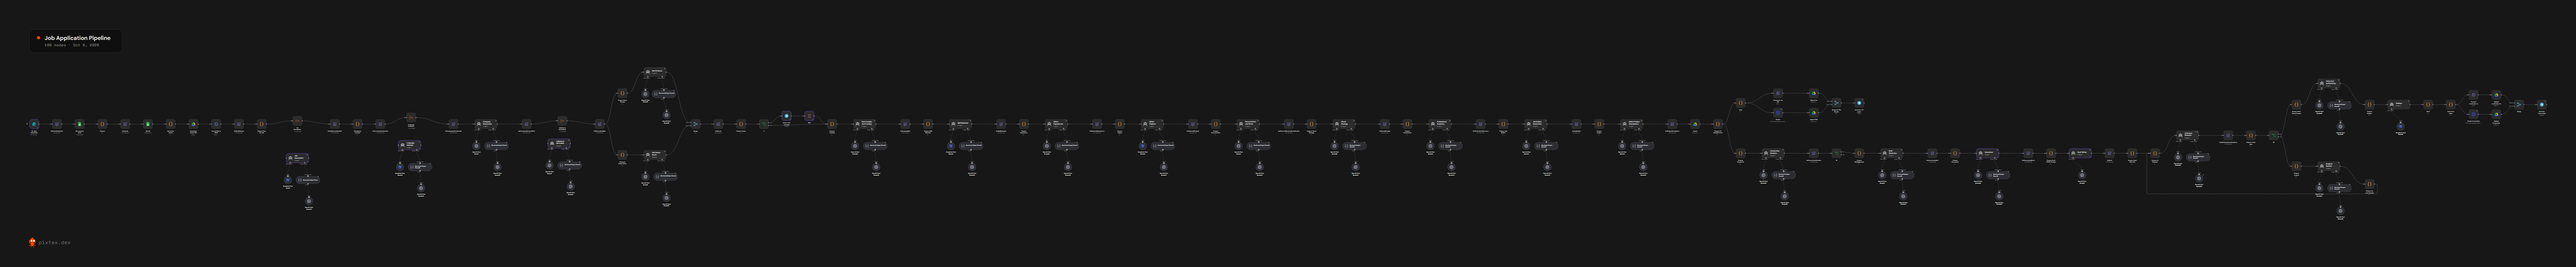
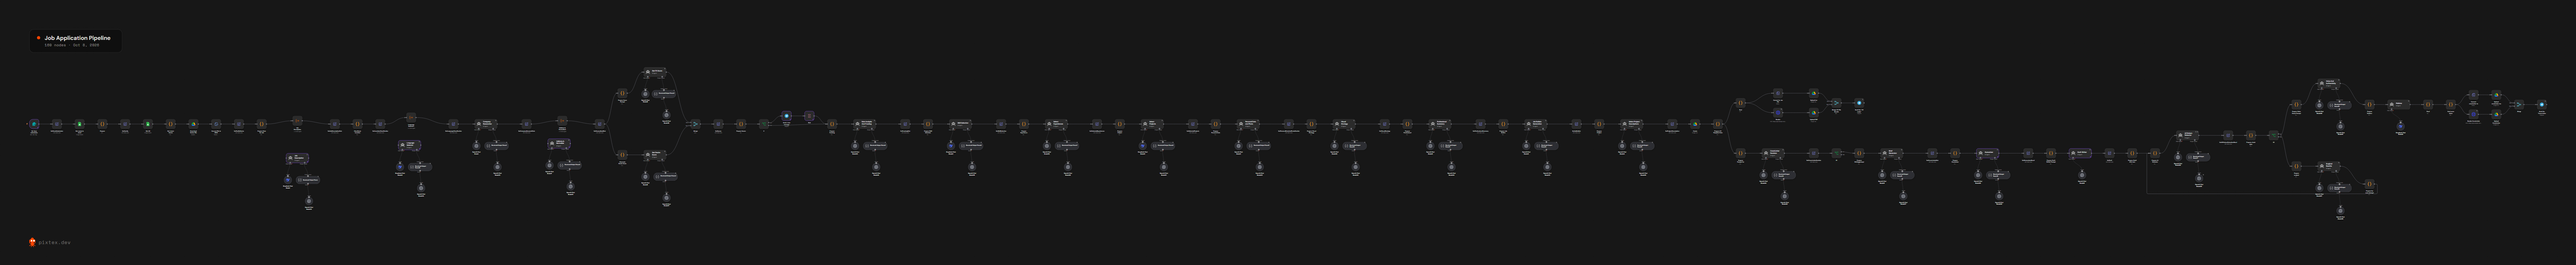
Render the canvas at full resolution and add readable 2x detail cuts
The overview was rasterized at a third of the canvas width, so the node names were unreadable once the image was opened. The hero now links to a native resolution render (25360x2613) and both READMEs gained four 2x cuts: reading, scoring, rendering and self review.

All screenshots are rendered from a sanitized copy of the canvas export, which carried the real latex host name in two node subtitles.

diff --git a/README.md b/README.md
@@ -8,11 +8,12 @@ builds the profile vectors the job flow matches against.
 This repository is the public copy of these workflows. All private data, API keys and sample
 payloads were taken out before publishing.
 
-[![Job Application Pipeline canvas](images/job-application-pipeline.png)](images/job-application-pipeline.png)
+[![Job Application Pipeline canvas](images/job-application-pipeline.png)](images/job-application-pipeline-full.png)
 
 The `job-application` flow from end to end: 169 nodes, starting at the form trigger on the
-left and ending with the rendered CV and cover letter on the right. The canvas is a wide
-strip, so open the image in a new tab if you want to read the node names.
+left and ending with the rendered CV and cover letter on the right. The canvas is 25360
+pixels wide, so the overview only shows the shape of the flow. Open it in a new tab for the
+full resolution render, or read the four cuts below.
 
 ## Highlights
 
@@ -26,6 +27,34 @@ strip, so open the image in a new tab if you want to read the node names.
 - `ai-utility` is the shared agent itself. One workflow holds the prompt, the JSON parsing and
   the retries, and a parameter picks Anthropic, OpenAI or DeepSeek, so no caller has to carry
   its own copy of the agent.
+
+## Detail views
+
+Four cuts from the same canvas export, rendered at twice the canvas size so the node names
+stay readable.
+
+**Reading the posting** — the newest profile vector is loaded and converted to JSON, and the
+job description is handed to the `AI Json Agent`. The agent behind that call runs on DeepSeek
+with its own structured output parser.
+
+![Job description extraction agent with its model and output parser](images/job-application-pipeline-detail-reading.png)
+
+**Scoring** — two agents score the match, one for fit and one for desire. The cut shows the
+desire score agent with its model and parser, the normalized data it runs on and the merge
+that combines both scores.
+
+![Fit and desire score agents with the merge that joins them](images/job-application-pipeline-detail-scoring.png)
+
+**Rendering and delivery** — the CV is converted to LaTeX, rendered to PDF, uploaded to Drive
+and announced over Telegram, while the cover letter decision and its own branch start in
+parallel.
+
+![LaTeX render, Drive upload and the Telegram notification](images/job-application-pipeline-detail-rendering.png)
+
+**Self review** — the AI pattern detector sends weak text through the surgical rewrite and the
+polisher, and `Prepare for next attempt` loops back until it passes.
+
+![Surgical rewrite and polisher review loop](images/job-application-pipeline-detail-review.png)
 
 ## Repository layout
 
@@ -134,7 +163,9 @@ Both expect the `x-api-key` header set to `MATCHING_API_KEY`.
 - Contact details, date of birth, nationality, location and profile links from the early job
   pipeline prototype. That prototype is not part of this repository.
 - Host names, the Telegram chat ID and the workflow author name. Hosts are now placeholder
-  domains, the chat ID is a `TELEGRAM_CHAT_ID` expression and the author field is empty.
+  domains, the chat ID is a `TELEGRAM_CHAT_ID` expression and the author field is empty. The
+  canvas export behind the screenshots carried the same host name in two node subtitles, so it
+  was sanitized before rendering.
 
 ## Notes before you reuse this
 

diff --git a/job-application/README.md b/job-application/README.md
@@ -3,10 +3,12 @@
 Takes a job posting, filters the stored CV data for what matters, generates a CV and a cover
 letter, renders them through a LaTeX service and reports progress over Telegram.
 
-![Job Application Pipeline canvas](../images/job-application-pipeline.png)
+[![Job Application Pipeline canvas](../images/job-application-pipeline.png)](../images/job-application-pipeline-full.png)
 
 The canvas above shows all 169 nodes of the main workflow, from the form trigger on the left
-to the rendered CV and cover letter on the right.
+to the rendered CV and cover letter on the right. The image links to the full resolution
+render, and the [repository README](../README.md#detail-views) holds four 2x cuts of the same
+canvas, one per stage.
 
 ## Workflows
 
